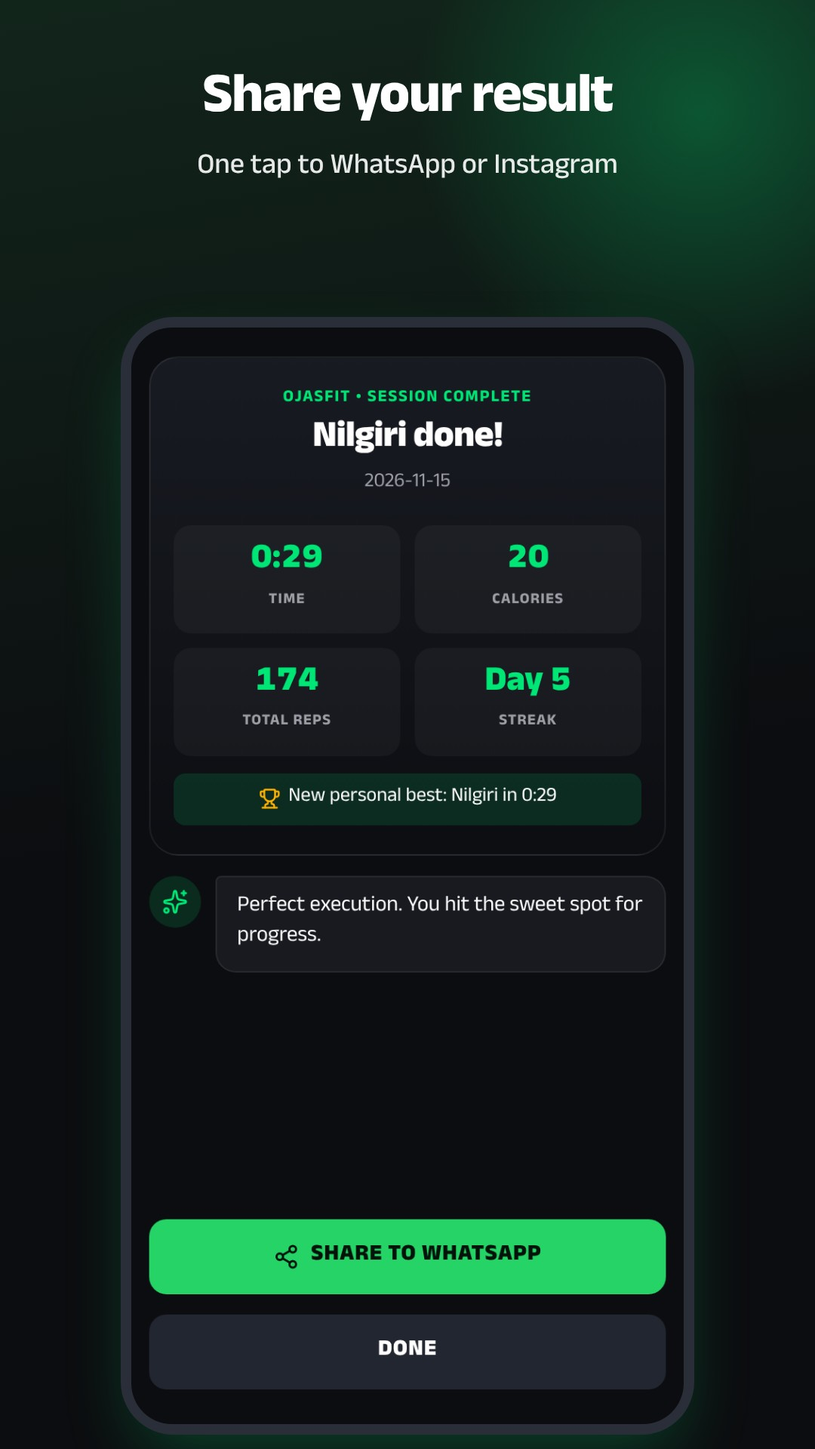
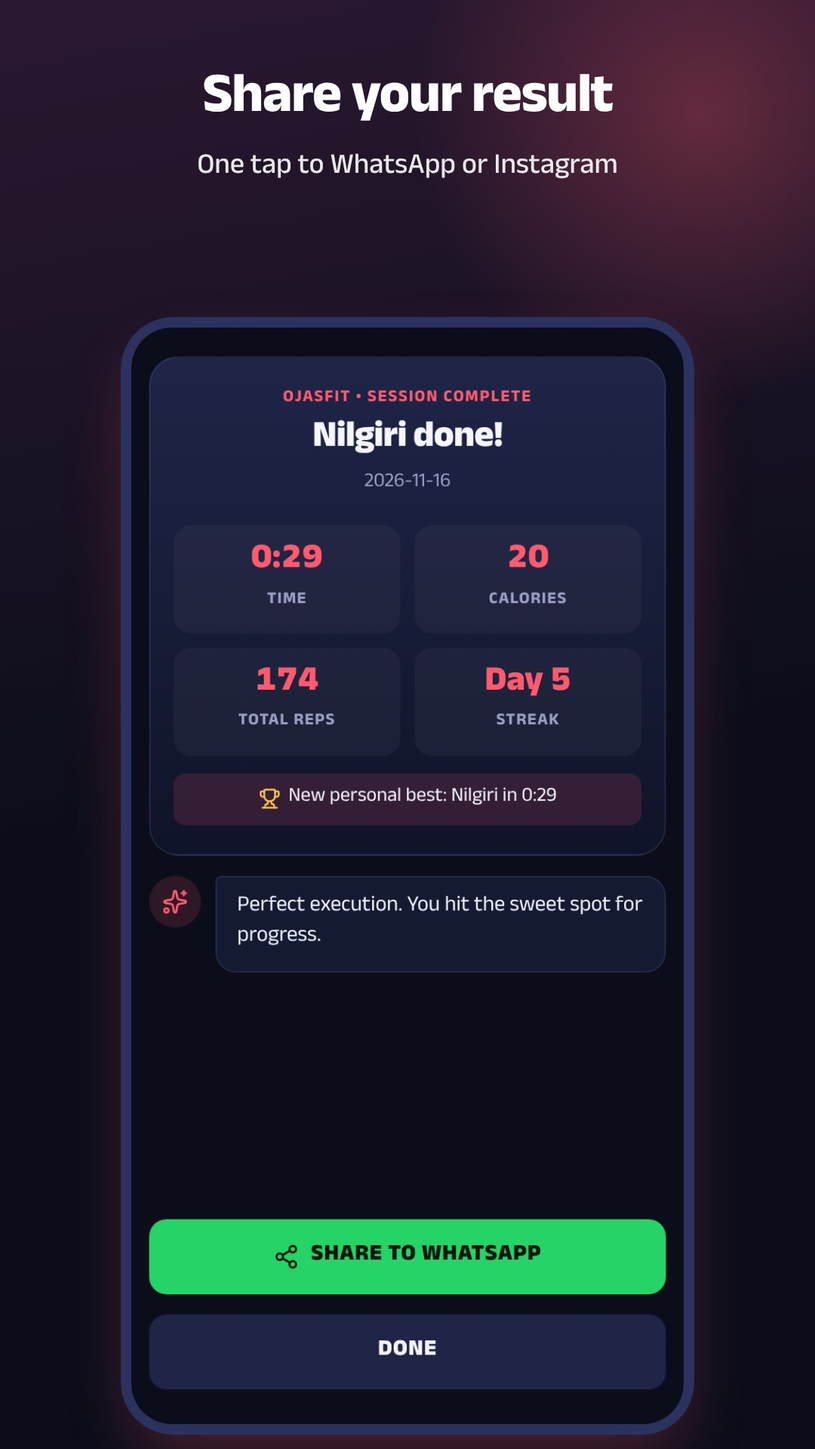
Restyle OjasFit in indigo and coral; pass the Impeccable design checks
Palette: indigo night surfaces with a single coral accent, replacing the
neon green. Text pairs are measured, not guessed: ink 15.8:1, muted 6.7:1
and coral 5.6:1 on cards. Button labels use dark ink on coral (6.4:1)
because white on coral fails at 3.0:1. Completed states use a separate
success colour so coral stays the one action colour. Tab bar and bottom
sheets get a light frosted-glass treatment.

Fixes from Impeccable's detector, run against rendered snapshots of ten
screens (all now clean): a low-contrast badge, navigation and metric
labels below 11px, coloured glow shadows replaced with neutral elevation,
and heading levels that skipped from h1 to h3.

Icon, share card, confetti and store graphics recoloured to match.

Claude-Session: https://claude.ai/code/session_01T9tLQk57EDzJVC7tGAWfUb

diff --git a/src/styles.css b/src/styles.css
@@ -1,23 +1,27 @@
 /* OjasFit design tokens: athletic dark theme. One accent, high contrast, readable mid-workout. */
 :root {
-  --bg: #0c0d10;
-  --card: #181a20;
-  --card-2: #222630;
-  --ink: #ffffff;
-  --muted: #9e9ea7;
-  --line: rgba(255, 255, 255, 0.08);
-  --fill: #222630;
-  --brand: #00e676;
-  --brand-ink: #04130a;
-  --brand-soft: rgba(0, 230, 118, 0.14);
-  --blue: #2979ff;
-  --blue-soft: rgba(41, 121, 255, 0.16);
-  --ok: #00e676;
-  --ok-soft: rgba(0, 230, 118, 0.14);
-  --gold: #ffb300;
-  --gold-soft: rgba(255, 179, 0, 0.14);
+  /* Indigo night surfaces, one coral accent. Text pairs are measured: ink 15.8:1, muted 6.7:1,
+     coral 5.6:1 on cards; button labels use dark ink on coral (6.4:1) because white fails (3.0:1). */
+  --bg: #0b0d1a;
+  --card: #151a33;
+  --card-2: #1f2547;
+  --ink: #f4f5ff;
+  --muted: #9aa0c3;
+  --line: rgba(200, 210, 255, 0.1);
+  --fill: #1f2547;
+  --brand: #ff5a6e;
+  --brand-ink: #1a0812;
+  --brand-soft: rgba(255, 90, 110, 0.15);
+  --brand-dim: #7d2a36;
+  --brand-lite: #ffb0bb;
+  --blue: #8ea2ff;
+  --blue-soft: rgba(142, 162, 255, 0.16);
+  --ok: #4be3a0;
+  --ok-soft: rgba(75, 227, 160, 0.14);
+  --gold: #ffc247;
+  --gold-soft: rgba(255, 194, 71, 0.14);
   --danger: #ff5252;
-  --ring: rgba(0, 230, 118, 0.5);
+  --ring: rgba(255, 90, 110, 0.55);
   --r-sm: 8px;
   --r-md: 12px;
   --r-lg: 16px;
@@ -36,7 +40,8 @@ button:focus-visible, a:focus-visible, input:focus-visible { outline: 3px solid 
 h1, h2, h3, p { margin: 0; }
 h1 { font-size: 1.7rem; line-height: 1.15; font-weight: 800; letter-spacing: -0.02em; text-wrap: balance; }
 h2 { font-size: 1.2rem; line-height: 1.25; font-weight: 750; letter-spacing: -0.01em; }
-h3 { font-size: 1rem; font-weight: 700; }
+h3, .h3 { font-size: 1rem; line-height: 1.45; font-weight: 700; letter-spacing: 0; }
+p { text-wrap: pretty; }
 b { font-weight: 700; }
 .eyebrow { font-size: 0.72rem; font-weight: 700; letter-spacing: 0.08em; text-transform: uppercase; color: var(--muted); }
 
@@ -71,20 +76,20 @@ b { font-weight: 700; }
 .btn.ghost { background: var(--card-2); color: var(--ink); }
 .btn.soft { background: var(--brand-soft); color: var(--brand); }
 .btn.ok { background: var(--brand); color: var(--brand-ink); }
-.btn.wa { background: #25d366; color: #04130a; }
+.btn.wa { background: #25d366; color: #06150c; }
 .btn.sm { min-height: 38px; width: auto; padding: 6px 14px; border-radius: 10px; font-size: 0.82rem; }
 .btn.plain-case { text-transform: none; letter-spacing: 0; font-weight: 650; font-size: 0.9rem; min-height: 44px; }
 .link { color: var(--brand); font-weight: 700; }
 .iconbtn { width: 42px; height: 42px; border-radius: var(--r-md); display: grid; place-items: center; background: var(--card); border: 1px solid var(--line); flex: none; transition: transform 0.12s; }
 .iconbtn:active { transform: scale(0.94); }
 .sticky-cta { position: sticky; bottom: calc(12px + env(safe-area-inset-bottom)); }
-.sticky-cta .btn { box-shadow: 0 10px 30px -6px rgba(0, 230, 118, 0.45); }
+.sticky-cta .btn { box-shadow: 0 12px 28px -8px rgba(0, 0, 0, 0.7); }
 
 /* Badges */
-.chip { display: inline-flex; align-items: center; gap: 4px; padding: 3px 8px; border-radius: 6px; font-size: 0.7rem; font-weight: 700; letter-spacing: 0.04em; text-transform: uppercase; background: var(--brand-soft); color: var(--brand); white-space: nowrap; line-height: 1.5; }
-.chip.ok { background: var(--brand-soft); color: var(--brand); }
+.chip { display: inline-flex; align-items: center; gap: 4px; padding: 3px 8px; border-radius: 6px; font-size: 0.7rem; font-weight: 700; letter-spacing: 0.04em; text-transform: uppercase; background: var(--brand-soft); color: var(--brand-lite); white-space: nowrap; line-height: 1.5; }
+.chip.ok { background: var(--ok-soft); color: var(--ok); }
 .chip.gold { background: var(--gold-soft); color: var(--gold); }
-.chip.blue { background: var(--blue-soft); color: #6ea2ff; }
+.chip.blue { background: var(--blue-soft); color: var(--blue); }
 .chip.plain { background: var(--card-2); color: var(--muted); }
 .chip.flash { font-size: 0.95rem; padding: 6px 14px; border-radius: 999px; background: var(--ink); color: var(--bg); animation: pop 0.3s both; }
 
@@ -109,8 +114,8 @@ b { font-weight: 700; }
 .input::placeholder, .input input::placeholder { color: var(--muted); }
 label.field { display: flex; flex-direction: column; gap: 6px; font-weight: 650; font-size: 0.9rem; }
 
-.tabbar { position: fixed; bottom: 0; left: 50%; transform: translateX(-50%); width: 100%; max-width: 480px; display: flex; background: rgba(12, 13, 16, 0.86); backdrop-filter: blur(16px); -webkit-backdrop-filter: blur(16px); border-top: 1px solid var(--line); padding-bottom: env(safe-area-inset-bottom); z-index: 5; }
-.tabbar button { flex: 1; display: flex; flex-direction: column; align-items: center; gap: 3px; padding: 10px 2px 8px; font-size: 0.68rem; font-weight: 700; color: var(--muted); letter-spacing: 0.02em; }
+.tabbar { position: fixed; bottom: 0; left: 50%; transform: translateX(-50%); width: 100%; max-width: 480px; display: flex; background: rgba(11, 13, 26, 0.78); backdrop-filter: blur(18px) saturate(1.3); -webkit-backdrop-filter: blur(18px) saturate(1.3); border-top: 1px solid var(--line); box-shadow: inset 0 1px 0 rgba(255, 255, 255, 0.05); padding-bottom: env(safe-area-inset-bottom); z-index: 5; }
+.tabbar button { flex: 1; display: flex; flex-direction: column; align-items: center; gap: 3px; padding: 10px 2px 8px; font-size: 0.72rem; font-weight: 700; color: var(--muted); letter-spacing: 0.02em; }
 .tabbar button.on { color: var(--brand); }
 
 .topbar { display: flex; align-items: center; gap: 10px; min-height: 44px; }
@@ -121,10 +126,10 @@ label.field { display: flex; flex-direction: column; gap: 6px; font-weight: 650;
 .streak-card { background: var(--card); border: 1px solid var(--line); border-radius: 14px; padding: 12px 14px; display: flex; justify-content: space-between; align-items: center; gap: 10px; }
 .streak-card b { font-size: 1.05rem; font-weight: 800; }
 .day-pills { display: flex; gap: 5px; }
-.day-pill { width: 27px; height: 27px; border-radius: 50%; background: var(--card-2); font-size: 0.66rem; font-weight: 700; display: grid; place-items: center; color: var(--muted); }
-.day-pill.done { background: var(--brand); color: var(--brand-ink); }
+.day-pill { width: 27px; height: 27px; border-radius: 50%; background: var(--card-2); font-size: 0.7rem; font-weight: 700; display: grid; place-items: center; color: var(--muted); }
+.day-pill.done { background: var(--ok); color: #05150d; }
 .day-pill.today { box-shadow: 0 0 0 1.5px var(--brand); }
-.hero-card { background: linear-gradient(145deg, #1a1d24, #12141a); border: 1px solid rgba(0, 230, 118, 0.22); border-radius: 18px; padding: 18px; display: flex; flex-direction: column; gap: 10px; position: relative; overflow: hidden; }
+.hero-card { background: linear-gradient(145deg, #1f2547, #151a33); border: 1px solid rgba(255, 90, 110, 0.28); border-radius: 18px; padding: 18px; display: flex; flex-direction: column; gap: 10px; position: relative; overflow: hidden; }
 .hero-card h2 { font-size: 1.5rem; font-weight: 800; letter-spacing: -0.02em; }
 .hero-card .glyph-bg { position: absolute; right: -30px; top: -30px; color: var(--brand); opacity: 0.07; line-height: 0; pointer-events: none; }
 .meta { display: flex; flex-wrap: wrap; gap: 4px 12px; font-size: 0.86rem; color: var(--muted); }
@@ -139,7 +144,7 @@ label.field { display: flex; flex-direction: column; gap: 6px; font-weight: 650;
 .bar > i { display: block; height: 100%; background: var(--brand); border-radius: 99px; transition: width 0.5s; }
 .phases { display: flex; gap: 3px; }
 .phases i { flex: 1; height: 6px; border-radius: 3px; background: var(--card-2); }
-.phases i.done { background: var(--brand); }
+.phases i.done { background: var(--ok); }
 .phases i.now { background: var(--brand); box-shadow: 0 0 0 2px var(--bg), 0 0 0 3px var(--brand); }
 
 .tiles { display: grid; grid-template-columns: 1fr 1fr; gap: 10px; }
@@ -160,7 +165,7 @@ label.field { display: flex; flex-direction: column; gap: 6px; font-weight: 650;
 .li:last-child { border-bottom: 0; padding-bottom: 2px; }
 .li.off { opacity: 0.45; }
 .num { width: 34px; height: 34px; border-radius: 50%; display: grid; place-items: center; font-weight: 700; font-size: 0.86rem; background: var(--card-2); color: var(--muted); flex: none; }
-.num.done { background: var(--brand); color: var(--brand-ink); }
+.num.done { background: var(--ok); color: #05150d; }
 .num.next { background: transparent; color: var(--brand); box-shadow: inset 0 0 0 2px var(--brand); }
 
 /* Skill ladder */
@@ -182,17 +187,17 @@ label.field { display: flex; flex-direction: column; gap: 6px; font-weight: 650;
 .fig-arm { stroke-width: 4.2; }
 .fig-leg { stroke-width: 5.2; }
 .fig-torso { stroke-width: 7.4; }
-.fig-far { stroke: #0a7a43; }
-.fig-near.fig-arm { stroke: #5cf2a5; }
+.fig-far { stroke: var(--brand-dim); }
+.fig-near.fig-arm { stroke: var(--brand-lite); }
 .fig-head { fill: var(--brand); }
 .figbox { background: var(--card-2); border-radius: var(--r-md); display: grid; place-items: center; flex: none; overflow: hidden; }
 .figbox.xl { border-radius: var(--r-xl); }
 
 /* Workout player */
 .player { position: fixed; inset: 0; background: var(--bg); z-index: 20; display: flex; justify-content: center; transition: background 0.35s; }
-.player.rest { background: #0a1410; }
+.player.rest { background: #0d1326; }
 .player-in { width: 100%; max-width: 480px; display: flex; flex-direction: column; padding: calc(10px + env(safe-area-inset-top)) 16px calc(16px + env(safe-area-inset-bottom)); gap: 10px; }
-.vid { width: 100%; flex: 0 1 38%; min-height: 150px; background: #14161c; border: 1px solid var(--line); border-radius: 18px; display: grid; place-items: center; overflow: hidden; position: relative; }
+.vid { width: 100%; flex: 0 1 38%; min-height: 150px; background: #10142a; border: 1px solid var(--line); border-radius: 18px; display: grid; place-items: center; overflow: hidden; position: relative; }
 .vid video { width: 100%; height: 100%; object-fit: cover; position: absolute; inset: 0; }
 .vid .tagline { position: absolute; left: 10px; top: 10px; }
 .stage { flex: 1; min-height: 0; display: flex; flex-direction: column; align-items: center; justify-content: center; gap: 6px; text-align: center; animation: rise 0.3s backwards; }
@@ -206,7 +211,7 @@ label.field { display: flex; flex-direction: column; gap: 6px; font-weight: 650;
 .dock { display: flex; justify-content: space-around; align-items: center; padding: 4px 0 6px; }
 .btn-circle { width: 54px; height: 54px; border-radius: 50%; background: var(--card-2); display: grid; place-items: center; color: var(--ink); transition: transform 0.12s; }
 .btn-circle:active { transform: scale(0.92); }
-.btn-circle.go { width: 76px; height: 76px; background: var(--brand); color: var(--brand-ink); box-shadow: 0 10px 30px -8px rgba(0, 230, 118, 0.6); }
+.btn-circle.go { width: 76px; height: 76px; background: var(--brand); color: var(--brand-ink); box-shadow: 0 12px 28px -8px rgba(0, 0, 0, 0.7); }
 .hud { display: flex; align-items: center; justify-content: space-between; gap: 10px; font-size: 0.82rem; color: var(--muted); font-weight: 600; }
 .hud .clock { font-weight: 800; font-size: 1rem; color: var(--ink); font-variant-numeric: tabular-nums; display: inline-flex; align-items: center; gap: 5px; }
 .restnum { font-size: 6rem; font-weight: 900; line-height: 1; letter-spacing: -0.04em; font-variant-numeric: tabular-nums; }
@@ -214,29 +219,29 @@ label.field { display: flex; flex-direction: column; gap: 6px; font-weight: 650;
 
 /* Bottom sheet */
 .sheet-bg { position: fixed; inset: 0; background: rgba(0, 0, 0, 0.7); z-index: 40; display: flex; align-items: flex-end; justify-content: center; animation: fade 0.2s both; }
-.sheet { width: 100%; max-width: 480px; background: var(--card); border-radius: var(--r-xl) var(--r-xl) 0 0; padding: 10px 16px calc(20px + env(safe-area-inset-bottom)); display: flex; flex-direction: column; gap: 12px; max-height: 90dvh; overflow-y: auto; animation: up 0.28s cubic-bezier(0.2, 0.7, 0.2, 1) both; border-top: 1px solid var(--line); }
+.sheet { width: 100%; max-width: 480px; background: rgba(21, 26, 51, 0.92); backdrop-filter: blur(20px) saturate(1.3); -webkit-backdrop-filter: blur(20px) saturate(1.3); box-shadow: inset 0 1px 0 rgba(255, 255, 255, 0.08); border-radius: var(--r-xl) var(--r-xl) 0 0; padding: 10px 16px calc(20px + env(safe-area-inset-bottom)); display: flex; flex-direction: column; gap: 12px; max-height: 90dvh; overflow-y: auto; animation: up 0.28s cubic-bezier(0.2, 0.7, 0.2, 1) both; border-top: 1px solid var(--line); }
 .sheet::before { content: ''; width: 40px; height: 4px; border-radius: 2px; background: var(--card-2); align-self: center; flex: none; margin-bottom: 6px; }
 .sheet .opt { background: var(--bg); }
 .sheet .opt.on { background: var(--brand-soft); }
 
 /* Recap poster */
-.poster { background: linear-gradient(180deg, #181b22 0%, #0d0e12 100%); border: 1px solid var(--line); border-radius: 20px; padding: 20px 16px; text-align: center; display: flex; flex-direction: column; gap: 6px; }
+.poster { background: linear-gradient(180deg, #1f2547 0%, #10142a 100%); border: 1px solid var(--line); border-radius: 20px; padding: 20px 16px; text-align: center; display: flex; flex-direction: column; gap: 6px; }
 .poster h1 { font-size: 1.6rem; font-weight: 900; }
 .metrics { display: grid; grid-template-columns: 1fr 1fr; gap: 10px; margin: 12px 0 6px; }
 .metric { background: rgba(255, 255, 255, 0.04); padding: 12px 8px; border-radius: 12px; }
 .metric b { display: block; font-size: 1.5rem; font-weight: 800; color: var(--brand); font-variant-numeric: tabular-nums; line-height: 1.15; }
-.metric span { font-size: 0.66rem; color: var(--muted); text-transform: uppercase; letter-spacing: 0.06em; font-weight: 700; }
+.metric span { font-size: 0.72rem; color: var(--muted); text-transform: uppercase; letter-spacing: 0.06em; font-weight: 700; }
 .banner { font-size: 0.86rem; background: var(--brand-soft); padding: 8px 10px; border-radius: 8px; display: flex; align-items: center; justify-content: center; gap: 6px; }
 .banner.blue { background: var(--blue-soft); }
 
 .heat { display: grid; grid-template-rows: repeat(7, 1fr); grid-auto-flow: column; gap: 4px; }
 .heat i { aspect-ratio: 1; border-radius: 4px; background: var(--card-2); }
-.heat i.on { background: var(--brand); }
+.heat i.on { background: var(--ok); }
 .heat i.future { opacity: 0.35; }
 .bars { display: flex; align-items: flex-end; gap: 8px; height: 120px; }
-.bars div { flex: 1; display: flex; flex-direction: column; align-items: center; justify-content: flex-end; gap: 4px; height: 100%; font-size: 0.68rem; color: var(--muted); font-weight: 600; font-variant-numeric: tabular-nums; }
+.bars div { flex: 1; display: flex; flex-direction: column; align-items: center; justify-content: flex-end; gap: 4px; height: 100%; font-size: 0.7rem; color: var(--muted); font-weight: 600; font-variant-numeric: tabular-nums; }
 .bars i { width: 100%; border-radius: 6px 6px 2px 2px; background: var(--card-2); min-height: 3px; transition: height 0.5s; }
-.bars div.has i { background: #0a7a43; }
+.bars div.has i { background: var(--brand-dim); }
 .bars div.now.has i { background: var(--brand); }
 .badges { display: grid; grid-template-columns: repeat(4, 1fr); gap: 10px 8px; }
 .badge { text-align: center; font-size: 0.7rem; font-weight: 600; color: var(--muted); line-height: 1.25; }
@@ -244,10 +249,10 @@ label.field { display: flex; flex-direction: column; gap: 6px; font-weight: 650;
 .badge.got { color: var(--ink); }
 .badge.got span { background: var(--gold-soft); color: var(--gold); opacity: 1; }
 
-.switch { width: 46px; height: 28px; border-radius: 99px; background: #3a3f4c; position: relative; flex: none; transition: background 0.15s; }
+.switch { width: 46px; height: 28px; border-radius: 99px; background: #353c66; position: relative; flex: none; transition: background 0.15s; }
 .switch::after { content: ''; position: absolute; top: 3px; left: 3px; width: 22px; height: 22px; border-radius: 50%; background: #fff; transition: transform 0.15s, background 0.15s; }
 .switch.on { background: var(--brand); }
-.switch.on::after { transform: translateX(18px); background: #04130a; }
+.switch.on::after { transform: translateX(18px); background: var(--brand-ink); }
 
 .plan { display: flex; align-items: center; gap: 12px; padding: 14px; border-radius: var(--r-lg); border: 1px solid var(--line); background: var(--card); width: 100%; }
 .plan.on { border-color: var(--brand); background: var(--brand-soft); }

diff --git a/src/screens/Me.jsx b/src/screens/Me.jsx
@@ -70,7 +70,7 @@ export function Progress() {
       </div>
 
       <div className="card stack">
-        <div className="row between"><h3>{t('weeklyMin')}</h3>{wk[7].minutes > wk[6].minutes && wk[6].minutes > 0 && <span className="chip ok">+{wk[7].minutes - wk[6].minutes} {t('min')}</span>}</div>
+        <div className="row between"><h2 className="h3">{t('weeklyMin')}</h2>{wk[7].minutes > wk[6].minutes && wk[6].minutes > 0 && <span className="chip ok">+{wk[7].minutes - wk[6].minutes} {t('min')}</span>}</div>
         <div className="bars">
           {wk.map((w, n) => (
             <div key={w.start} className={`${n === 7 ? 'now' : ''} ${w.minutes ? 'has' : ''}`}>
@@ -84,7 +84,7 @@ export function Progress() {
 
       {bests.length > 0 && (
         <div className="card">
-          <h3>{t('yourBests')}</h3>
+          <h2 className="h3">{t('yourBests')}</h2>
           <div className="list">
             {bests.map((x) => <div className="li" key={x.id}><span className="grow"><b>{L(x.name)}</b> <span className="chip plain">{t('lvl_' + x.lvl)}</span></span><b style={{ fontVariantNumeric: 'tabular-nums' }}>{clock(p.pbs[x.id])}</b></div>)}
           </div>
@@ -92,12 +92,12 @@ export function Progress() {
       )}
 
       <div className="card stack">
-        <h3>{t('last12')}</h3>
+        <h2 className="h3">{t('last12')}</h2>
         <div className="heat">{cells.map((d) => <i key={d} className={`${st.days.has(d) ? 'on' : ''} ${d > today ? 'future' : ''}`} />)}</div>
       </div>
 
       <div className="card stack">
-        <div className="row between"><h3>{t('weight')}</h3>{latest && <b>{latest} kg</b>}</div>
+        <div className="row between"><h2 className="h3">{t('weight')}</h2>{latest && <b>{latest} kg</b>}</div>
         <WeightChart points={p.weights} />
         {p.weights.length < 2 && <p className="muted small">{t('noWeight')}</p>}
         <div className="row">
@@ -113,12 +113,12 @@ export function Progress() {
       </div>
 
       <div className="card stack">
-        <h3>{t('badges')}</h3>
+        <h2 className="h3">{t('badges')}</h2>
         <div className="badges">{badges(p).map((b) => <div key={b.id} className={`badge ${b.got ? 'got' : ''}`}><span><Glyph id={b.icon} size={24} /></span>{L(b)}</div>)}</div>
       </div>
 
       <div className="card">
-        <h3>{t('history')}</h3>
+        <h2 className="h3">{t('history')}</h2>
         {p.history.length === 0 && <p className="muted small" style={{ marginTop: 8 }}>{t('noHistory')}</p>}
         <div className="list">
           {p.history.slice(-10).reverse().map((h) => {
@@ -161,11 +161,11 @@ function EditSheet({ onClose }) {
   return (
     <Sheet onClose={onClose}>
         <input className="input" value={d.name} maxLength={24} placeholder={t('namePh')} onChange={(e) => set({ name: e.target.value })} />
-        <h3>{t('levelTitle')}</h3>
+        <h2 className="h3">{t('levelTitle')}</h2>
         <div className="pills">{['beginner', 'inter', 'advanced'].map((l) => <button key={l} className={`pill ${d.level === l ? 'on' : ''}`} onClick={() => set({ level: l })}>{t('level_' + l)}</button>)}</div>
-        <h3>{t('daysTitle')}</h3>
+        <h2 className="h3">{t('daysTitle')}</h2>
         <div className="pills">{[2, 3, 4, 5, 6].map((n) => <button key={n} className={`pill ${d.days === n ? 'on' : ''}`} onClick={() => set({ days: n })}>{n}</button>)}</div>
-        <h3>{t('healthTitle')}</h3>
+        <h2 className="h3">{t('healthTitle')}</h2>
         <div className="pills">
           {LIMITS.map((id) => (
             <button key={id} className={`pill ${d.limits.includes(id) ? 'on' : ''}`} onClick={() => set({ limits: d.limits.includes(id) ? d.limits.filter((x) => x !== id) : [...d.limits, id] })}>{t('limit_' + id)}</button>
@@ -229,7 +229,7 @@ export function Profile({ nav }) {
       <h1>{t('tab_profile')}</h1>
 
       <div className="card">
-        <h3>{t('family')}</h3>
+        <h2 className="h3">{t('family')}</h2>
         <div className="list">
           {state.profiles.map((m) => (
             <div className="li" key={m.id}>
@@ -262,7 +262,7 @@ export function Profile({ nav }) {
       <a className="btn wa" href={`https://wa.me/?text=${encodeURIComponent(invite)}`} target="_blank" rel="noreferrer" style={{ textDecoration: 'none' }}><Share2 size={18} /> {t('inviteTitle')}</a>
 
       <div className="card">
-        <h3>{t('settings')}</h3>
+        <h2 className="h3">{t('settings')}</h2>
         <div className="list">
           <div className="li">
             <span className="grow">{t('language')}</span>
@@ -275,7 +275,7 @@ export function Profile({ nav }) {
       </div>
 
       <div className="card stack">
-        <h3>{t('data')}</h3>
+        <h2 className="h3">{t('data')}</h2>
         <p className="muted small">{t('dataNote')}</p>
         <button className="btn ghost" onClick={exportData}><Download size={18} /> {t('export')}</button>
         <button className="btn ghost" onClick={() => file.current.click()}><Upload size={18} /> {t('import')}</button>

diff --git a/src/lib/share.js b/src/lib/share.js
@@ -10,33 +10,33 @@ export async function recapImage(card) {
   const c = cv.getContext('2d')
   const font = (w, px) => `${w} ${px}px 'Anek Devanagari Variable', system-ui, sans-serif`
   const g = c.createLinearGradient(0, 0, 0, H)
-  g.addColorStop(0, '#181b22'); g.addColorStop(1, '#0c0d10')
+  g.addColorStop(0, '#1f2547'); g.addColorStop(1, '#0b0d1a')
   c.fillStyle = g; c.fillRect(0, 0, W, H)
   const glow = c.createRadialGradient(W / 2, 430, 0, W / 2, 430, 720)
-  glow.addColorStop(0, 'rgba(0,230,118,0.22)'); glow.addColorStop(1, 'rgba(0,230,118,0)')
+  glow.addColorStop(0, 'rgba(255,90,110,0.24)'); glow.addColorStop(1, 'rgba(255,90,110,0)')
   c.fillStyle = glow; c.fillRect(0, 0, W, 1200)
   const box = (x, y, w, h, r, fill) => { c.beginPath(); c.roundRect(x, y, w, h, r); c.fillStyle = fill; c.fill() }
   const fit = (text, w, px, max) => { let s = px; c.font = font(w, s); while (c.measureText(text).width > max && s > 30) { s -= 4; c.font = font(w, s) } }
   c.textAlign = 'center'
   // brand mark
-  c.strokeStyle = '#00e676'; c.lineWidth = 16; c.lineCap = 'round'
+  c.strokeStyle = '#ff5a6e'; c.lineWidth = 16; c.lineCap = 'round'
   c.beginPath(); c.arc(W / 2, 250, 54, -0.75, Math.PI * 1.48); c.stroke()
-  c.fillStyle = '#00e676'; c.beginPath(); c.arc(W / 2 + 44, 206, 11, 0, Math.PI * 2); c.fill()
-  c.font = font(800, 40); c.fillStyle = '#00e676'
+  c.fillStyle = '#ff5a6e'; c.beginPath(); c.arc(W / 2 + 44, 206, 11, 0, Math.PI * 2); c.fill()
+  c.font = font(800, 40); c.fillStyle = '#ff5a6e'
   c.fillText(`${APP.name.toUpperCase()}  •  ${card.head}`, W / 2, 400)
   c.fillStyle = '#ffffff'; fit(card.title, 900, 104, 960); c.fillText(card.title, W / 2, 540)
-  c.fillStyle = '#9e9ea7'; c.font = font(500, 40); c.fillText(card.sub, W / 2, 620)
+  c.fillStyle = '#9aa0c3'; c.font = font(500, 40); c.fillText(card.sub, W / 2, 620)
   card.metrics.forEach(([value, label], n) => {
     const x = 80 + (n % 2) * 470, y = 720 + Math.floor(n / 2) * 330
     box(x, y, 450, 300, 36, 'rgba(255,255,255,0.05)')
-    c.fillStyle = '#00e676'; fit(String(value), 800, 120, 400); c.fillText(String(value), x + 225, y + 170)
-    c.fillStyle = '#9e9ea7'; c.font = font(700, 34); c.fillText(label.toUpperCase(), x + 225, y + 240)
+    c.fillStyle = '#ff5a6e'; fit(String(value), 800, 120, 400); c.fillText(String(value), x + 225, y + 170)
+    c.fillStyle = '#9aa0c3'; c.font = font(700, 34); c.fillText(label.toUpperCase(), x + 225, y + 240)
   })
   if (card.banner) {
-    box(80, 1410, 920, 120, 28, 'rgba(0,230,118,0.14)')
+    box(80, 1410, 920, 120, 28, 'rgba(255,90,110,0.16)')
     c.fillStyle = '#ffffff'; fit(card.banner, 700, 44, 860); c.fillText(card.banner, W / 2, 1486)
   }
-  c.fillStyle = '#9e9ea7'; c.font = font(600, 38)
+  c.fillStyle = '#9aa0c3'; c.font = font(600, 38)
   c.fillText((APP.url || '').replace(/^https?:\/\//, '').replace(/\/$/, ''), W / 2, 1800)
   return new Promise((resolve) => cv.toBlob(resolve, 'image/png'))
 }

diff --git a/src/screens/Onboarding.jsx b/src/screens/Onboarding.jsx
@@ -112,7 +112,7 @@ export default function Onboarding({ add = false, onDone }) {
               </button>
             ))}
           </div>
-          <div><h3>{t('daysTitle')}</h3><p className="muted small">{t('daysSub')}</p></div>
+          <div><h2 className="h3">{t('daysTitle')}</h2><p className="muted small">{t('daysSub')}</p></div>
           <div className="pills">
             {[2, 3, 4, 5, 6].map((n) => <button key={n} className={`pill ${d.days === n ? 'on' : ''}`} onClick={() => set({ days: n })}>{n}</button>)}
           </div>
@@ -152,7 +152,7 @@ export default function Onboarding({ add = false, onDone }) {
         <>
           <div><h1>{t('planTitle')}</h1><p className="muted">{t('planSub')}</p></div>
           <JourneyOption j={JMAP[rec]} on={chosen === rec} onClick={() => setJid(rec)} badge={t('recommended')} />
-          {others.length > 0 && <h3>{t('otherOptions')}</h3>}
+          {others.length > 0 && <h2 className="h3">{t('otherOptions')}</h2>}
           {others.map((j) => <JourneyOption key={j.id} j={j} on={chosen === j.id} onClick={() => setJid(j.id)} />)}
         </>
       )}

diff --git a/src/screens/Main.jsx b/src/screens/Main.jsx
@@ -304,7 +304,7 @@ export function Calibrate({ hid, nav }) {
     <div className="screen plain">
       <h1 style={{ marginTop: 8 }}>{t('shabash')}</h1>
       <div className="stack">
-        <h3>{t('rpeQ')}</h3>
+        <h2 className="h3">{t('rpeQ')}</h2>
         {[1, 2, 3, 4, 5].map((n) => (
           <button key={n} className={`opt ${rpe === n ? 'on' : ''}`} onClick={() => setRpe(n)} style={{ minHeight: 52, padding: '8px 14px' }}>
             <span className="opt-icon" style={{ fontWeight: 800 }}>{n}</span>
@@ -313,7 +313,7 @@ export function Calibrate({ hid, nav }) {
         ))}
       </div>
       <div className="stack">
-        <h3>{t('techQ')}</h3>
+        <h2 className="h3">{t('techQ')}</h2>
         <div className="seg">{[1, 2, 3].map((n) => <button key={n} className={tech === n ? 'on' : ''} onClick={() => setTech(n)}>{t('tech_' + n)}</button>)}</div>
       </div>
       <div className="spacer" />

diff --git a/index.html b/index.html
@@ -3,7 +3,7 @@
   <head>
     <meta charset="UTF-8" />
     <meta name="viewport" content="width=device-width, initial-scale=1.0, viewport-fit=cover" />
-    <meta name="theme-color" content="#0c0d10" />
+    <meta name="theme-color" content="#0b0d1a" />
     <meta name="mobile-web-app-capable" content="yes" />
     <meta name="apple-mobile-web-app-capable" content="yes" />
     <meta name="apple-mobile-web-app-title" content="OjasFit" />

diff --git a/src/components/Confetti.jsx b/src/components/Confetti.jsx
@@ -1,6 +1,6 @@
 import { useEffect, useRef } from 'react'
 
-const COLORS = ['#ee5207', '#ff8a1f', '#1f9d55', '#f5b83d', '#d6336c', '#3b5bdb']
+const COLORS = ['#ff5a6e', '#ffb0bb', '#8ea2ff', '#ffc247', '#4be3a0', '#f4f5ff']
 
 // A short burst of confetti drawn on a canvas. Skipped when the person prefers reduced motion.
 export default function Confetti() {
